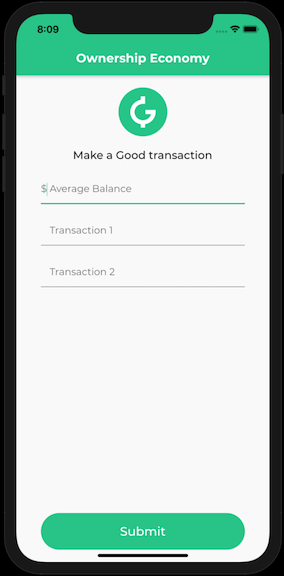
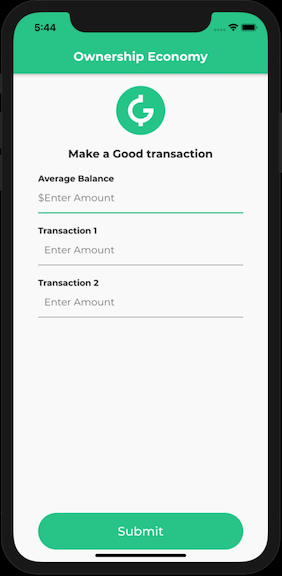
Made some style tweeks

diff --git a/lib/screens/home_screen.dart b/lib/screens/home_screen.dart
@@ -64,15 +64,27 @@ class HomeScreen extends StatelessWidget {
                     'Make a Good transaction',
                     style: TextStyle(
                       fontSize: 18,
-                      fontWeight: FontWeight.w500,
+                      fontWeight: FontWeight.w700,
                     ),
                   ),
                   SizedBox(height: 20.0),
+                  Row(
+                    mainAxisAlignment: MainAxisAlignment.start,
+                    children: <Widget>[
+                      Text(
+                        'Average Balance',
+                        style: TextStyle(
+                          fontSize: 14,
+                          fontWeight: FontWeight.w700,
+                        ),
+                      ),
+                    ],
+                  ),
                   FormattedInput(
                     autoFocus: false,
                     decoration: InputDecoration(
                       prefixText: '\$',
-                      hintText: ' Average Balance',
+                      hintText: 'Enter Amount',
                     ),
                     focusNode: _focusNode1,
                     keyboardType:
@@ -98,11 +110,23 @@ class HomeScreen extends StatelessWidget {
                         val.isEmpty ? 'Please enter a balance' : null,
                   ),
                   SizedBox(height: 20.0),
+                  Row(
+                    mainAxisAlignment: MainAxisAlignment.start,
+                    children: <Widget>[
+                      Text(
+                        'Transaction 1',
+                        style: TextStyle(
+                          fontSize: 14,
+                          fontWeight: FontWeight.w700,
+                        ),
+                      ),
+                    ],
+                  ),
                   FormattedInput(
                     autoFocus: false,
                     decoration: InputDecoration(
                       prefixText: '\$',
-                      hintText: ' Transaction 1',
+                      hintText: 'Enter Amount',
                     ),
                     focusNode: _focusNode2,
                     initialValue: state.transactions[0],
@@ -130,11 +154,23 @@ class HomeScreen extends StatelessWidget {
                         val.isEmpty ? 'Please enter a transaction' : null,
                   ),
                   SizedBox(height: 20.0),
+                  Row(
+                    mainAxisAlignment: MainAxisAlignment.start,
+                    children: <Widget>[
+                      Text(
+                        'Transaction 2',
+                        style: TextStyle(
+                          fontSize: 14,
+                          fontWeight: FontWeight.w700,
+                        ),
+                      ),
+                    ],
+                  ),
                   FormattedInput(
                     autoFocus: false,
                     decoration: InputDecoration(
                       prefixText: '\$',
-                      hintText: ' Transaction 2',
+                      hintText: 'Enter Amount',
                     ),
                     focusNode: _focusNode3,
                     initialValue: state.transactions[1],

diff --git a/README.md b/README.md
@@ -11,4 +11,4 @@
 - 2 decimals can be used, but are not required
 - Using the `New Transaction` button will load a fresh account
 
-![1](./assets/screenshots/app-1.png) ![2](./assets/screenshots/app-2.png) ![3](./assets/screenshots/app-3.png)
+![1](./assets/screenshots/app-1.png) ![2](./assets/screenshots/app-2.png) ![3](./assets/screenshots/app-3.png) ![4](./assets/screenshots/app-4.png)
